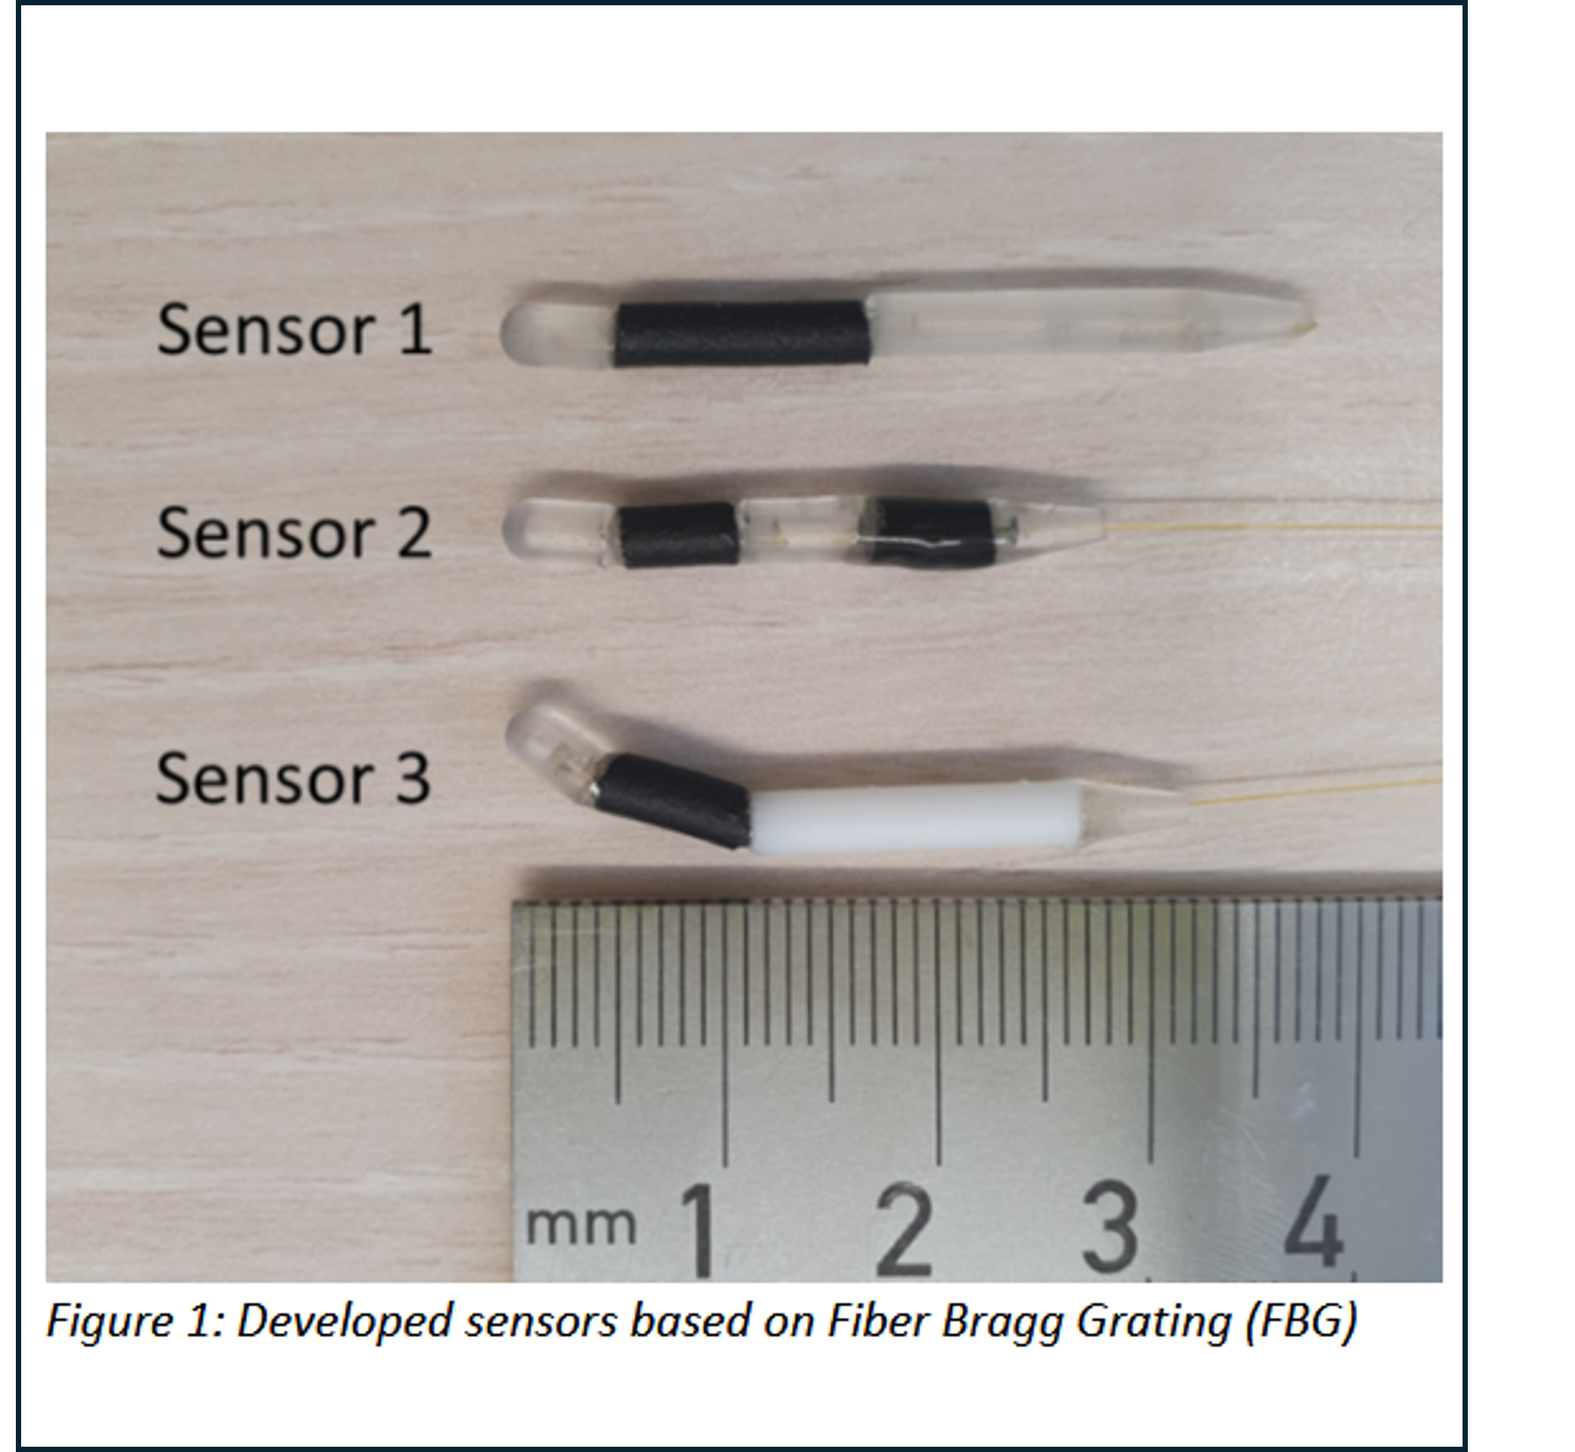
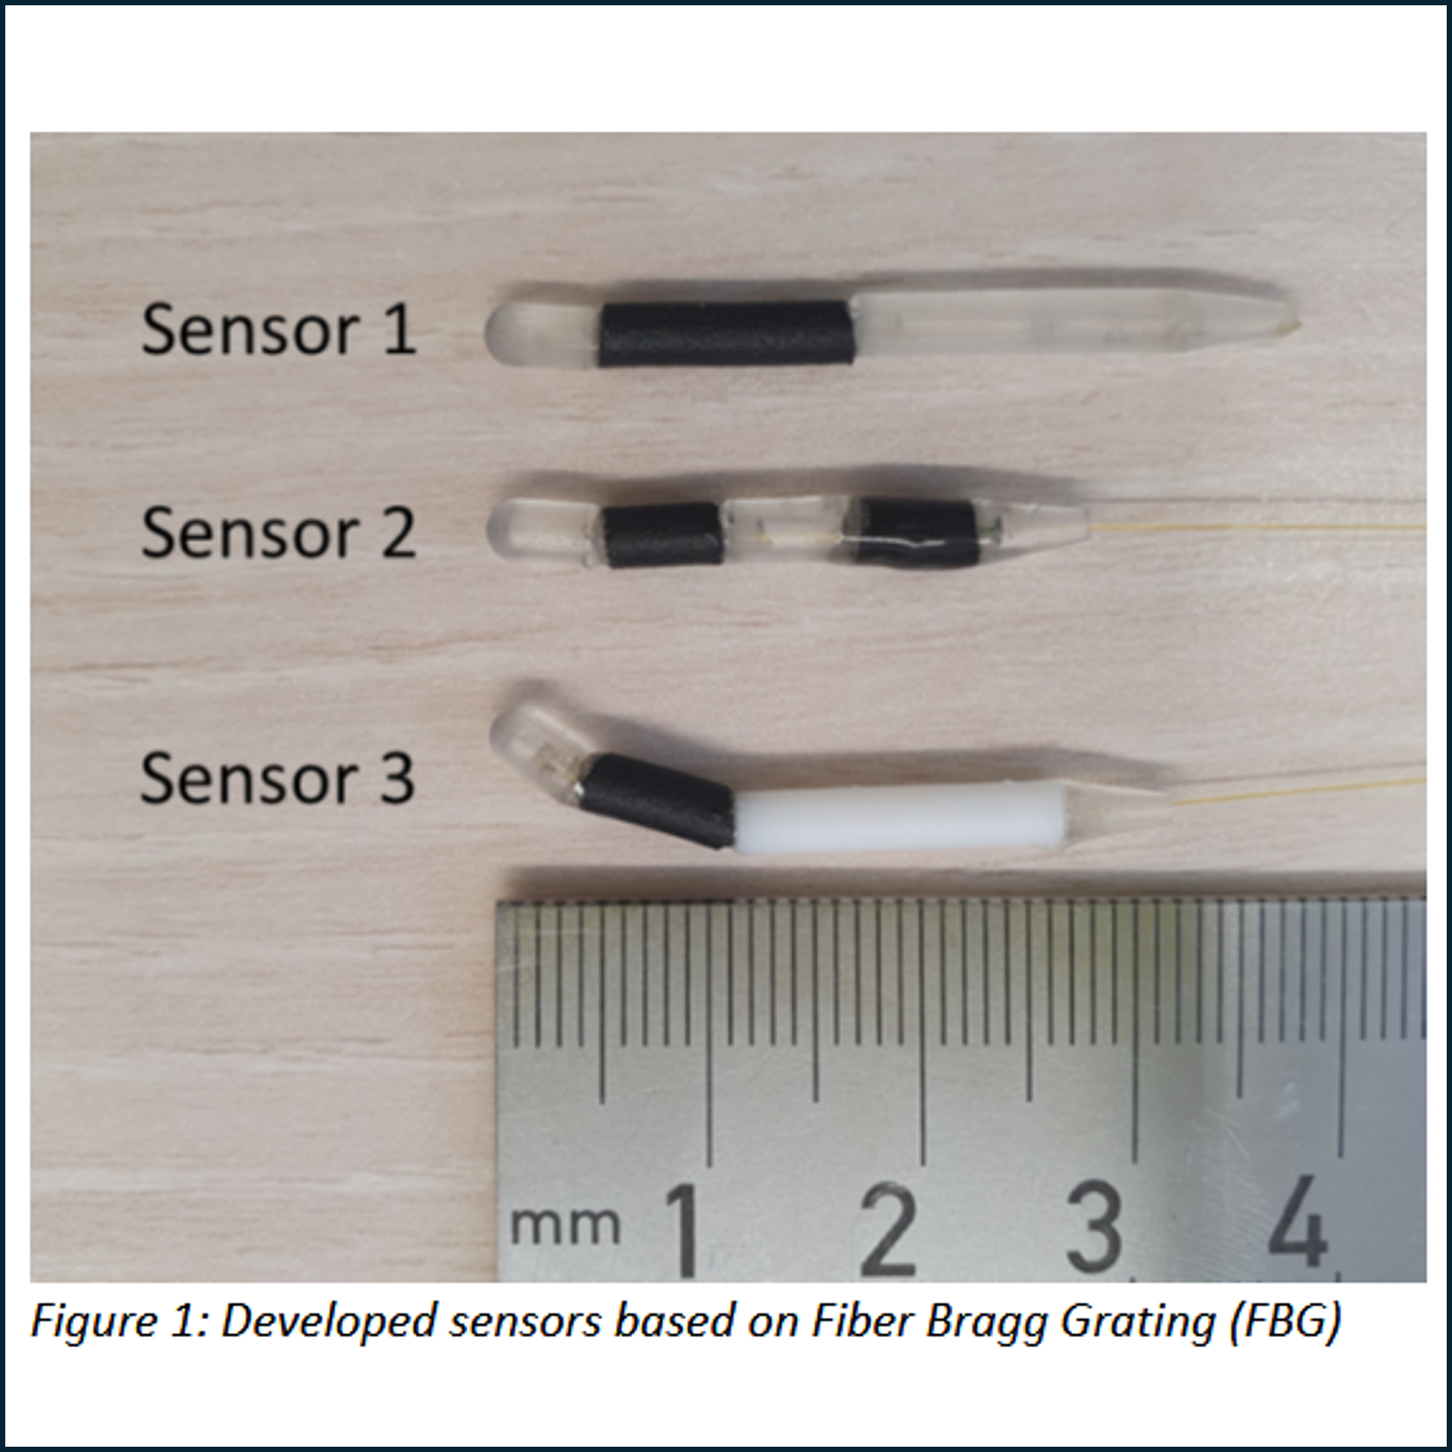
casicasi

diff --git a/_pages/about.md b/_pages/about.md
@@ -44,6 +44,8 @@ My interests include machine learning, applied mathematics, computer vision, and
 <h2 id="portfolio" style="margin-top: 3.25rem">Portfolio</h2>
 
 <h3 id="portfolio-m2olie">M2OLIE</h3>
+<p><strong>Time period worked on the project:</strong> 05.2022 - today</p>
+<p><strong>PLace:</strong> Mannheim Institute for Intelligent Systems in Medicine (MIISM) at Medical Faculty Mannheim, Heidelberg University</p>
 <p>M2OLIE (Mannheim Molecular Intervention Environment) is a long‑term, interdisciplinary research initiative funded by the German Federal Ministry of Education and Research. Its goal is to develop a new, efficient, and personalized cancer treatment process—especially for patients with oligometastatic cancer (a limited number of metastatic tumors).</p>
 
 <p>The project aims to create a "closed loop" clinical process that integrates imaging, diagnostics, molecular analysis, and minimally invasive therapy into a continuous, data-driven workflow. This could allow cancer patients to go from admission to individualized treatment and discharge in a much shorter timeframe than current standard care.</p>
@@ -174,6 +176,7 @@ My interests include machine learning, applied mathematics, computer vision, and
 <h3 id="portfolio-flycad">FlyCAD</h3>
 <p>Comming soon</p>
 <p><strong>Time period worked on the project:</strong> 02.2025 - 09.2025</p>
+<p><strong>PLace:</strong> Mannheim Institute for Intelligent Systems in Medicine (MIISM) at Medical Faculty Mannheim, Heidelberg University</p>
 <div class="projects">
   <div class="row row-cols-1">
     <div class="col mb-4">
@@ -206,6 +209,7 @@ My interests include machine learning, applied mathematics, computer vision, and
 
 <h3 id="portfolio-ariadne">Ariadne</h3>
 <p><strong>Time period worked on the project:</strong> 05.2022 - 12.2023</p>
+<p><strong>PLace:</strong> Mannheim Institute for Intelligent Systems in Medicine (MIISM) at Medical Faculty Mannheim, Heidelberg University</p>
 <p>This project aimed to develop a novel system for the autonomous robotic navigation of guide wires during minimally invasive vascular procedures, such as angioplasty or aneurysm treatment. The primary goal was to significantly reduce complication rates—like perforations or dissections—caused by difficult wire navigation, especially in complex or tortuous vessels. The core challenge was the vast physiological variability of patient-specific vascular tissue, which makes accurate pre-operative modeling insufficient for safe real-time control. The project was funded by the Heidelberg University Excellence Strategy (Field of Focus 2).</p>
 <p><strong>Activities:</strong> the guide wire actuation system was designed with computer-based control using ROS, and different mechanisms for measuring guide wire force, both distal and proximal, were investigated in order to use this information as haptic feedback.</p>
 <div class="projects">
@@ -219,7 +223,7 @@ My interests include machine learning, applied mathematics, computer vision, and
           <div class="col-md-8">
             <div class="card-body">
               <h4 class="card-title">Ensemble Kalman inversion for image guided guide wire navigation in vascular systems</h4>
-              <p class="card-text">Hanu, M., Hesser, J., Kanschat, G. et al. Ensemble Kalman inversion for image guided guide wire navigation in vascular systems. J.Math.Industry 14, 21 (2024).</p>
+              <p class="card-text">Hanu, M., Hesser, J., Kanschat, G., <strong>Moviglia, J.</strong>, Schillings, C., & Stallkamp, J. Ensemble Kalman inversion for image guided guide wire navigation in vascular systems. J.Math.Industry 14, 21 (2024). https://doi.org/10.1186/s13362-024-00159-4 </p>
               <p class="card-text">This paper proposes the use of a technique called Ensemble Kalman Inversion (EKI) with subsampling to estimate unknown parameters, such as density and elasticity, of a guide wire used in cardiovascular interventions. The goal is to replicate high-resolution images of the wire using a physical model based on Cosserat rods. Since images generate large volumes of data, the standard method becomes computationally expensive, so the authors introduce a subsampling approach that processes only parts of the image in each iteration. Experiments with real data show that this variant achieves similar accuracy to the full method, but at a much lower cost, paving the way for more efficient and safer control of the guide wire in real procedures.</p>
               <p><strong>Contribution:</strong> development of the experimental setup</p>
               <p>
@@ -276,29 +280,34 @@ My interests include machine learning, applied mathematics, computer vision, and
 
 <h3 id="portfolio-petra">PeTRA</h3>
 <p><strong>Time period worked on the project:</strong> 12.2020 - 04.2022</p>
+<p><strong>PLace:</strong> Institute for Robotics and Autonomous Systems (IRAS) at Hochschule Karlsruhe</p>
 <p>The PeTRA (Person Transfer Robot Assistant) project, developed by the Hochschule Karlsruhe, aimed to create a robotic assistant that helped transport and accompany patients safely within hospitals or healthcare facilities. Its goal was to reduce the workload of healthcare staff, improve the efficiency of hospital processes, and increase patients’ autonomy and safety during their movements between different areas.</p>
 <p><strong>Activities:</strong> the research focused on the development of the robot’s navigation algorithm with a trailer attached for transport, using the ROS Navigation Stack and its integration into the software architecture through behavior trees. Work was also carried out jointly with the industrial partner KUKA for its integration.</p>
+<p>For more information visit: <a href="http://patiententransportassistent.de/" target="_blank" rel="noopener noreferrer">http://patiententransportassistent.de/</a></p>
+
 <div class="projects">
   <div class="row row-cols-1">
     <div class="col mb-4">
       <div class="card h-100 hoverable">
         <div class="row no-gutters align-items-stretch">
           <div class="col-md-4">
-            <img src="https://images.unsplash.com/photo-1581092921461-eab62e97a780?auto=format&fit=crop&w=900&q=80" class="img-fluid w-100 border rounded p-2" style="aspect-ratio: 1 / 1; object-fit: contain" alt="PeTRA project" loading="lazy">
+            <img src="/assets/img/petra.png" class="img-fluid w-100 border rounded p-2" style="aspect-ratio: 1 / 1; object-fit: contain" alt="petra" loading="lazy">
           </div>
           <div class="col-md-8">
             <div class="card-body">
-              <h4 class="card-title">PeTRA ("Personen-Transfer Roboter-Assistent")</h4>
-              <p class="card-text">Funded by the Federal Ministry of Research, Technology and Space (Bundesministerium für Forschung, Technologie und Raumfahrt).</p>
+              <h4 class="card-title">Softwareentwicklung des Personen-Transfer Roboter-Assistenten (PeTRA) zur Unterstützung von Pflegekräften ()</h4>
+              <p class="card-text">A. Zachariae, C. Wurll, M. Weisenböhler, and <strong>J. Moviglia</strong>, “Softwareentwicklung des Personen-Transfer Roboter-Assistenten (PeTRA) zur Unterstützung von Pflegekräften,” in 4. Clusterkonferenz „Zukunft der Pflege“, Hannover, Feb. 2022, pp. 51–52.</p>
+              <p class="card-text">The PeTRA project aims to reduce the workload of healthcare staff by automating patient transport, allowing more time for quality care while promoting patient mobility and autonomy. At Hochschule Karlsruhe, software was developed using ROS 2 to manage workflow, monitor patients, and facilitate communication. The system coordinates transport via behavior trees, supports multiple mobility modes, and enables human-machine interaction through voice commands, multilingual speech output, and a tablet interface. Patient safety is ensured through real-time monitoring with a 3D depth camera and neural network for pose detection, allowing immediate assistance in case of falls, fainting, or other risks</p>
+              <p><strong>Contribution:</strong> Navigation and integration in the software architecture</p>
               <p>
-                <a class="btn btn-sm btn-outline-primary" href="https://arxiv.org/" target="_blank" rel="noopener noreferrer">Paper</a>
+                <a class="btn btn-sm btn-outline-primary" href="https://ppz-hannover.de/wp-content/uploads/2024/10/CZP2021_Konferenzband.pdf" target="_blank" rel="noopener noreferrer">Paper</a>
               </p>
               <p class="mb-1"><strong>Tech stack</strong></p>
               <div class="mb-0">
-                <span class="badge badge-pill badge-primary mr-1 mb-1">Mechatronics</span>
-                <span class="badge badge-pill badge-info mr-1 mb-1">Safety Systems</span>
-                <span class="badge badge-pill badge-secondary mr-1 mb-1">Sensors</span>
-                <span class="badge badge-pill badge-dark mr-1 mb-1">Prototyping</span>
+                <span class="badge badge-pill badge-primary mr-1 mb-1">Robotic</span>
+                <span class="badge badge-pill badge-info mr-1 mb-1">ROS</span>
+                <span class="badge badge-pill badge-secondary mr-1 mb-1">Navigation</span>
+                <span class="badge badge-pill badge-dark mr-1 mb-1">Software architecture</span>
               </div>
             </div>
           </div>
@@ -309,28 +318,33 @@ My interests include machine learning, applied mathematics, computer vision, and
 </div>
 
 <h3 id="portfolio-mauer-roboter-40">Mauer-Roboter 4.0</h3>
-<p>Mauer-Roboter 4.0 targets automation in construction through collaborative robotics and industrial integration in real building workflows.</p>
+<p><strong>Time period worked on the project:</strong> 02.2021 - 04.2022</p>
+<p><strong>PLace:</strong> Institute for Robotics and Autonomous Systems (IRAS) at Hochschule Karlsruhe</p>
+<p>In collaboration with the companies Dressler GmbH and AAT Automation GmbH, a mobile robot was developed at the Institute for Robotics and Autonomous Systems (IRAS) at Hochschule Karlsruhe with the aim of automating the construction of sand-lime brick walls on construction sites.</p>
+<p><strong>Activities:</strong> Project management, communication with partners, and supervision of several student projects that contributed to the construction of the robot. Among the technical activities carried out with students were the installation of the KUKA robotic arm in the institute’s facilities, the robot safety cage with integrated sensors and PLC control (Programmable Logic Controller), programming of the EKI code interface with ROS, development of a mobile platform position measurement system using integrated sensors and an external tracking system, implementation of pick-and-place operations with computer vision algorithms, and market studies.</p>
+<p>For more information visit: <a href="https://www.h-ka.de/iras/profil/news-detailseite/artikel/mauer-roboter-40" target="_blank" rel="noopener noreferrer">https://www.h-ka.de/iras/profil/news-detailseite/artikel/mauer-roboter-40</a></p>
 <div class="projects">
   <div class="row row-cols-1">
     <div class="col mb-4">
       <div class="card h-100 hoverable">
         <div class="row no-gutters align-items-stretch">
           <div class="col-md-4">
-            <img src="https://images.unsplash.com/photo-1581092335397-9583eb92d232?auto=format&fit=crop&w=900&q=80" class="img-fluid w-100 border rounded p-2" style="aspect-ratio: 1 / 1; object-fit: contain" alt="Mauer-Roboter 4.0 project" loading="lazy">
+            <img src="/assets/img/maurob.png" class="img-fluid w-100 border rounded p-2" style="aspect-ratio: 1 / 1; object-fit: contain" alt="maurob" loading="lazy">
           </div>
           <div class="col-md-8">
             <div class="card-body">
               <h4 class="card-title">Mauer-Roboter 4.0</h4>
               <p class="card-text">Collaborative project between the construction company Dressler GmbH, AAT Automation GmbH, and Hochschule Karlsruhe.</p>
               <p>
-                <a class="btn btn-sm btn-outline-primary" href="https://arxiv.org/" target="_blank" rel="noopener noreferrer">Paper</a>
+                <a class="btn btn-sm btn-outline-primary" href="https://www.h-ka.de/iras/profil/news-detailseite/artikel/mauer-roboter-40" target="_blank" rel="noopener noreferrer">Web</a>
               </p>
               <p class="mb-1"><strong>Tech stack</strong></p>
               <div class="mb-0">
-                <span class="badge badge-pill badge-primary mr-1 mb-1">Industrial Robotics</span>
-                <span class="badge badge-pill badge-info mr-1 mb-1">Automation</span>
-                <span class="badge badge-pill badge-secondary mr-1 mb-1">PLC</span>
-                <span class="badge badge-pill badge-dark mr-1 mb-1">Field Testing</span>
+                <span class="badge badge-pill badge-primary mr-1 mb-1">Management</span>
+                <span class="badge badge-pill badge-info mr-1 mb-1">Robotic</span>
+                <span class="badge badge-pill badge-secondary mr-1 mb-1">Computer vision</span>
+                <span class="badge badge-pill badge-dark mr-1 mb-1">Navigation</span>
+                <span class="badge badge-pill badge-dark mr-1 mb-1">Pick and Place</span>
               </div>
             </div>
           </div>
@@ -341,28 +355,35 @@ My interests include machine learning, applied mathematics, computer vision, and
 </div>
 
 <h3 id="portfolio-avatera-robotic-surgery-training-system">Avatera robotic surgery training system</h3>
-<p>This project focuses on a robotic surgery training platform designed to improve usability, reproducibility, and surgeon learning workflows.</p>
+<p><strong>Time period worked on the project:</strong> 03.2019 - 08.2019</p>
+<p><strong>PLace:</strong> ITK Engineering GmbH</p>
+<p>The project consisted of the development of the Avatera robotic training simulator.</p>
+<p><strong>Activities:</strong> programming VR (virtual reality) exercises with Unity 3D for the training simulator, hardware configuration, programming the interface with Qt, research on realistic tissue cross-section representation, and collaborative work using Git.</p>
+<p>For more information visit: </p>
+<p><a href="https://www.itk-engineering.de/" target="_blank" rel="noopener noreferrer">https://www.itk-engineering.de/</a></p>
+<p><a href="https://avatera.eu/avatera-system" target="_blank" rel="noopener noreferrer">https://avatera.eu/avatera-system</a></p>
 <div class="projects">
   <div class="row row-cols-1">
     <div class="col mb-4">
       <div class="card h-100 hoverable">
         <div class="row no-gutters align-items-stretch">
           <div class="col-md-4">
-            <img src="https://images.unsplash.com/photo-1582719478250-c89cae4dc85b?auto=format&fit=crop&w=900&q=80" class="img-fluid w-100 border rounded p-2" style="aspect-ratio: 1 / 1; object-fit: contain" alt="Avatera robotic surgery training system" loading="lazy">
+            <img src="/assets/img/avatera.png" class="img-fluid w-100 border rounded p-2" style="aspect-ratio: 1 / 1; object-fit: contain" alt="avatera" loading="lazy">
           </div>
           <div class="col-md-8">
             <div class="card-body">
               <h4 class="card-title">Avatera robotic surgery training system</h4>
-              <p class="card-text">Developed at ITK Engineering.</p>
+              <p class="card-text">Developed at ITK Engineering GmbH.</p>
               <p>
-                <a class="btn btn-sm btn-outline-primary" href="https://arxiv.org/" target="_blank" rel="noopener noreferrer">Paper</a>
+                <a class="btn btn-sm btn-outline-primary" href="https://avatera.eu/avatera-system" target="_blank" rel="noopener noreferrer">Web</a>
               </p>
               <p class="mb-1"><strong>Tech stack</strong></p>
               <div class="mb-0">
-                <span class="badge badge-pill badge-primary mr-1 mb-1">C++</span>
+                <span class="badge badge-pill badge-primary mr-1 mb-1">C#</span>
                 <span class="badge badge-pill badge-info mr-1 mb-1">Qt</span>
-                <span class="badge badge-pill badge-secondary mr-1 mb-1">Medical Robotics</span>
-                <span class="badge badge-pill badge-dark mr-1 mb-1">HMI</span>
+                <span class="badge badge-pill badge-secondary mr-1 mb-1">Medical Simulator</span>
+                <span class="badge badge-pill badge-dark mr-1 mb-1">Unity 3D</span>
+                <span class="badge badge-pill badge-dark mr-1 mb-1">git</span>
               </div>
             </div>
           </div>
@@ -373,28 +394,33 @@ My interests include machine learning, applied mathematics, computer vision, and
 </div>
 
 <h3 id="portfolio-final-degree-project-in-electronic-engineering">Final degree project in Electronic Engineering</h3>
-<p>Final undergraduate engineering work centered on the design, implementation, and validation of a complete electronic system.</p>
+<p><strong>Time period worked on the project:</strong> 2019 - 08.2020</p>
+<p><strong>PLace:</strong> Instrumentation and Control Laboratory. Department of Electronics, Faculty of Engineering, National University of Mar del Plata. Argentina</p>
+<p>In my thesis, I worked on interleaved DC/DC converters, which efficiently control high currents by splitting them across multiple phases. I focused on mitigating the effects of phase inductor imbalances, which increase total current ripple (∆iₜ) and lower-frequency harmonics. Following the method proposed by Antoszczuk et al., I implemented an optimal phase ordering using genetic algorithms to minimize ripple amplitude. My work included developing signal acquisition hardware, designing a digital platform on an FPGA in VHDL, and validating the implementation through simulations and experimental tests. This project was carried out at the Instrumentation and Control Laboratory of the National University of Mar del Plata (UNMdP), which collaborates closely with CERN (European Organization for Nuclear Research), and it is one of several projects that emerged from these collaborative efforts.</p>
 <div class="projects">
   <div class="row row-cols-1">
     <div class="col mb-4">
       <div class="card h-100 hoverable">
         <div class="row no-gutters align-items-stretch">
           <div class="col-md-4">
-            <img src="https://images.unsplash.com/photo-1518770660439-4636190af475?auto=format&fit=crop&w=900&q=80" class="img-fluid w-100 border rounded p-2" style="aspect-ratio: 1 / 1; object-fit: contain" alt="Final degree project in Electronic Engineering" loading="lazy">
+            <img src="/assets/img/final.png" class="img-fluid w-100 border rounded p-2" style="aspect-ratio: 1 / 1; object-fit: contain" alt="final" loading="lazy">
           </div>
           <div class="col-md-8">
             <div class="card-body">
-              <h4 class="card-title">Final degree project in Electronic Engineering</h4>
-              <p class="card-text">Completed at the National University of Mar del Plata (Universidad Nacional de Mar del Plata).</p>
+              <h4 class="card-title">Ordenamiento óptimo de las fases de un convertidor multifásico de potencia mediante FPGA</h4>
+              <p class="card-text"><strong>J. H. Moviglia</strong>, Ordenamiento óptimo de las fases de un convertidor multifásico de potencia mediante FPGA, Undergraduate thesis, Faculty of Engineering, National University of Mar del Plata, Argentina, Aug. 2020.</p>
               <p>
-                <a class="btn btn-sm btn-outline-primary" href="https://arxiv.org/" target="_blank" rel="noopener noreferrer">Paper</a>
+                <a class="btn btn-sm btn-outline-primary" href="https://rinfi.fi.mdp.edu.ar/bitstream/handle/123456789/426/Moviglia-TFG-IEe-2020.pdf?sequence=1&isAllowed=y" target="_blank" rel="noopener noreferrer">pdf</a>
               </p>
               <p class="mb-1"><strong>Tech stack</strong></p>
               <div class="mb-0">
                 <span class="badge badge-pill badge-primary mr-1 mb-1">Electronics</span>
                 <span class="badge badge-pill badge-info mr-1 mb-1">PCB Design</span>
-                <span class="badge badge-pill badge-secondary mr-1 mb-1">Firmware</span>
-                <span class="badge badge-pill badge-dark mr-1 mb-1">Instrumentation</span>
+                <span class="badge badge-pill badge-secondary mr-1 mb-1">FPGA</span>
+                <span class="badge badge-pill badge-secondary mr-1 mb-1">VHDL</span>
+                <span class="badge badge-pill badge-secondary mr-1 mb-1">Matlab</span>
+                <span class="badge badge-pill badge-dark mr-1 mb-1">AI</span>
+                <span class="badge badge-pill badge-dark mr-1 mb-1">Simulation</span>
               </div>
             </div>
           </div>
